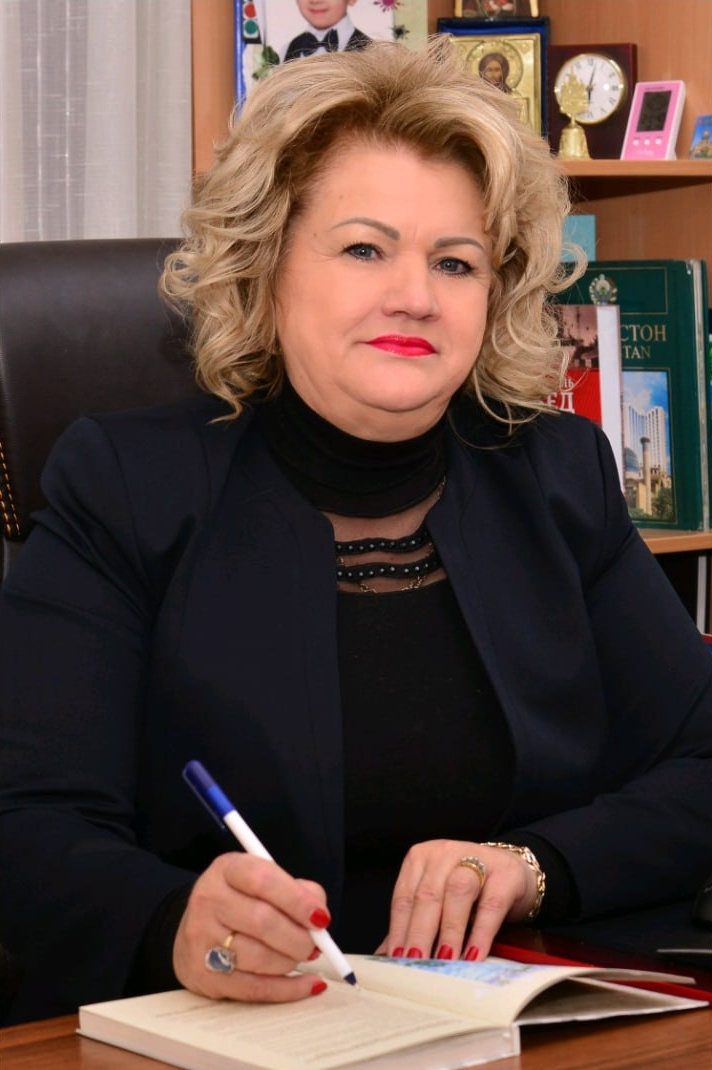
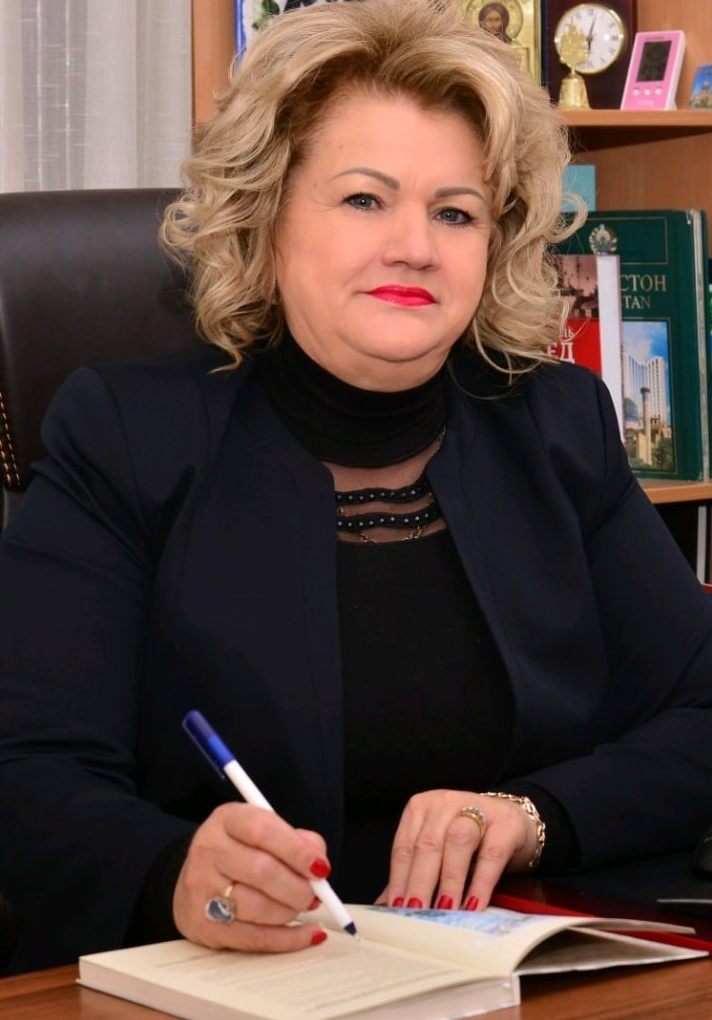
fix(home): prioritize local clean Galina portrait without letterbox bar and assign new generated photos to preschool, primary, middle, and high school blocks

diff --git a/components/Teachers.jsx b/components/Teachers.jsx
@@ -72,12 +72,23 @@ export default function Teachers({
             "/images/teachers/nigora.jpg",
             "/images/teachers/albina.jpg",
           ];
-          const hasCustomPhoto = item.imageUrl && !item.imageUrl.includes("bg.png");
-          const finalImageUrl = hasCustomPhoto 
-            ? (item.imageUrl.startsWith("/images/") 
-                ? item.imageUrl 
-                : (item.imageUrl.startsWith("/") ? (process.env.NEXT_PUBLIC_API_URL ? process.env.NEXT_PUBLIC_API_URL.replace("/api", "") : "https://new-generation-school.onrender.com") + item.imageUrl : item.imageUrl))
-            : fallbackPhotos[idx % fallbackPhotos.length];
+
+          let finalImageUrl = fallbackPhotos[idx % fallbackPhotos.length];
+          // Always use clean local cropped portrait for Galina Alekseevna
+          if (item?.name?.includes("Галина") || item?.imageUrl?.includes("galina") || item?.imageUrl?.includes("Galina") || idx === 0) {
+            finalImageUrl = "/images/teachers/galina.jpg";
+          } else if (item?.imageUrl && !item.imageUrl.includes("bg.png")) {
+            if (item.imageUrl.startsWith("/images/")) {
+              finalImageUrl = item.imageUrl;
+            } else if (item.imageUrl.startsWith("/")) {
+              const apiBase = process.env.NEXT_PUBLIC_API_URL 
+                ? process.env.NEXT_PUBLIC_API_URL.replace("/api", "") 
+                : "https://new-generation-school.onrender.com";
+              finalImageUrl = apiBase + item.imageUrl;
+            } else {
+              finalImageUrl = item.imageUrl;
+            }
+          }
 
           return (
             <GridItem key={idx}>

diff --git a/components/Programs.jsx b/components/Programs.jsx
@@ -117,14 +117,17 @@ export default function Programs({
         gap={6}
       >
         {items.map((item, idx) => {
-          // Resolve image URL (prepend API URL if it's a relative path from backend)
-          const finalImageUrl = item.imageUrl
-            ? item.imageUrl.startsWith("/")
-              ? (process.env.NEXT_PUBLIC_API_URL
-                  ? process.env.NEXT_PUBLIC_API_URL.replace("/api", "")
-                  : "https://new-generation-school.onrender.com") + item.imageUrl
-              : item.imageUrl
-            : "/bg.png";
+          const title = (item?.title || "").toLowerCase();
+          let finalImageUrl = "/images/programs/preschool.jpg";
+          if (title.includes("дошкол") || idx === 0) {
+            finalImageUrl = "/images/programs/preschool.jpg";
+          } else if (title.includes("начальн") || idx === 1) {
+            finalImageUrl = "/images/programs/primary.jpg";
+          } else if (title.includes("средн") || idx === 2) {
+            finalImageUrl = "/images/programs/middle.jpg";
+          } else if (title.includes("старш") || idx === 3) {
+            finalImageUrl = "/images/programs/high.jpg";
+          }
 
           return (
             <GridItem key={idx}>

diff --git a/app/teachers/page.js b/app/teachers/page.js
@@ -143,7 +143,10 @@ export default function TeachersPage() {
     loadTeachers();
   }, []);
 
-  const resolveImage = (url) => {
+  const resolveImage = (url, name) => {
+    if (name?.includes("Галина") || url?.includes("galina") || url?.includes("Galina")) {
+      return "/images/teachers/galina.jpg";
+    }
     if (!url) return "/images/teachers/galina.jpg";
     if (url.startsWith("/images/")) return url;
     if (url.startsWith("/")) {
